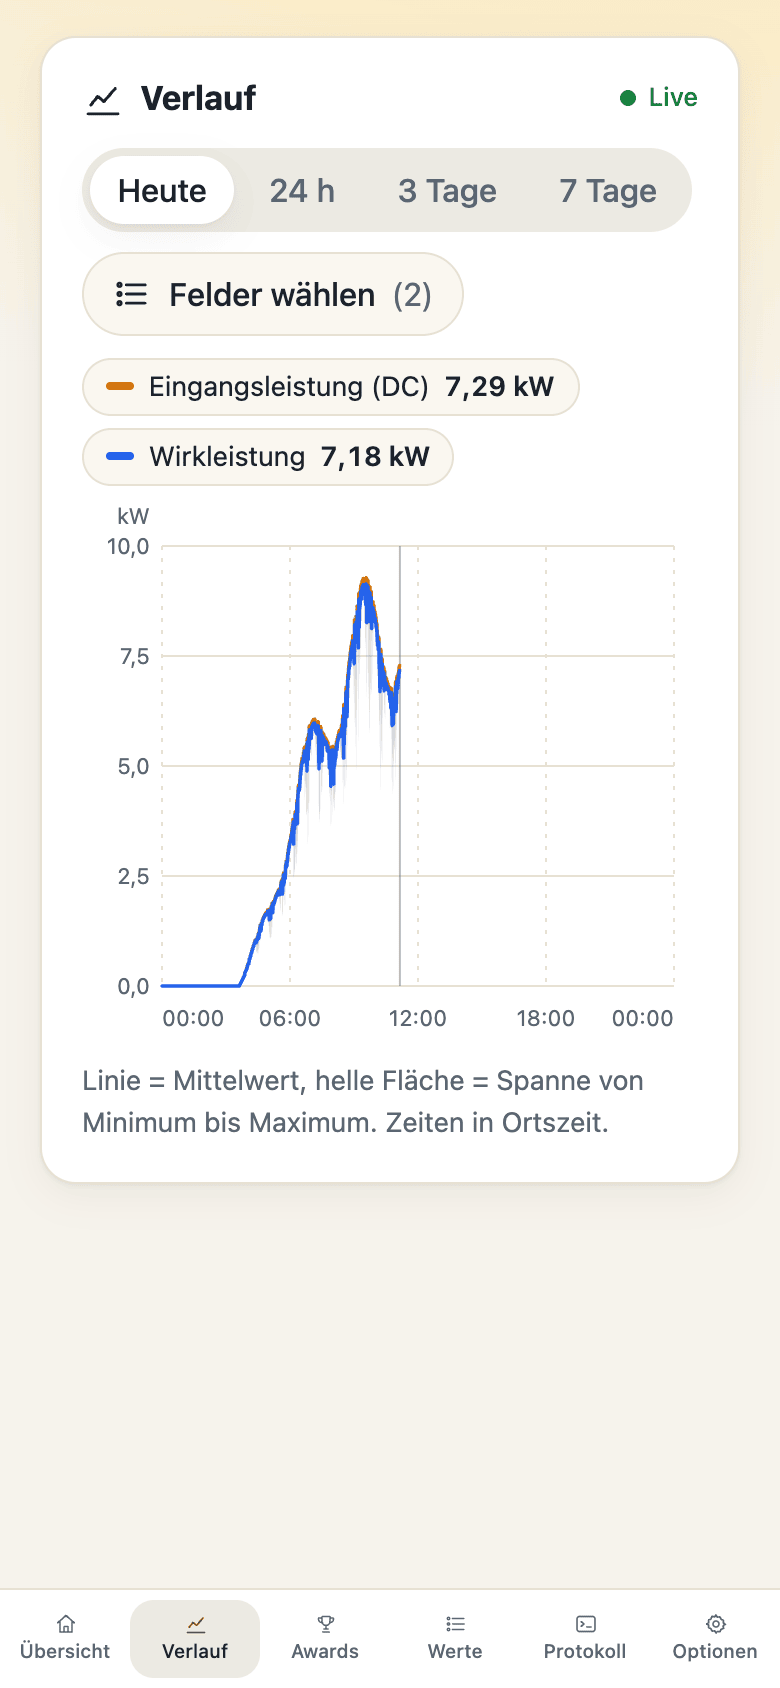
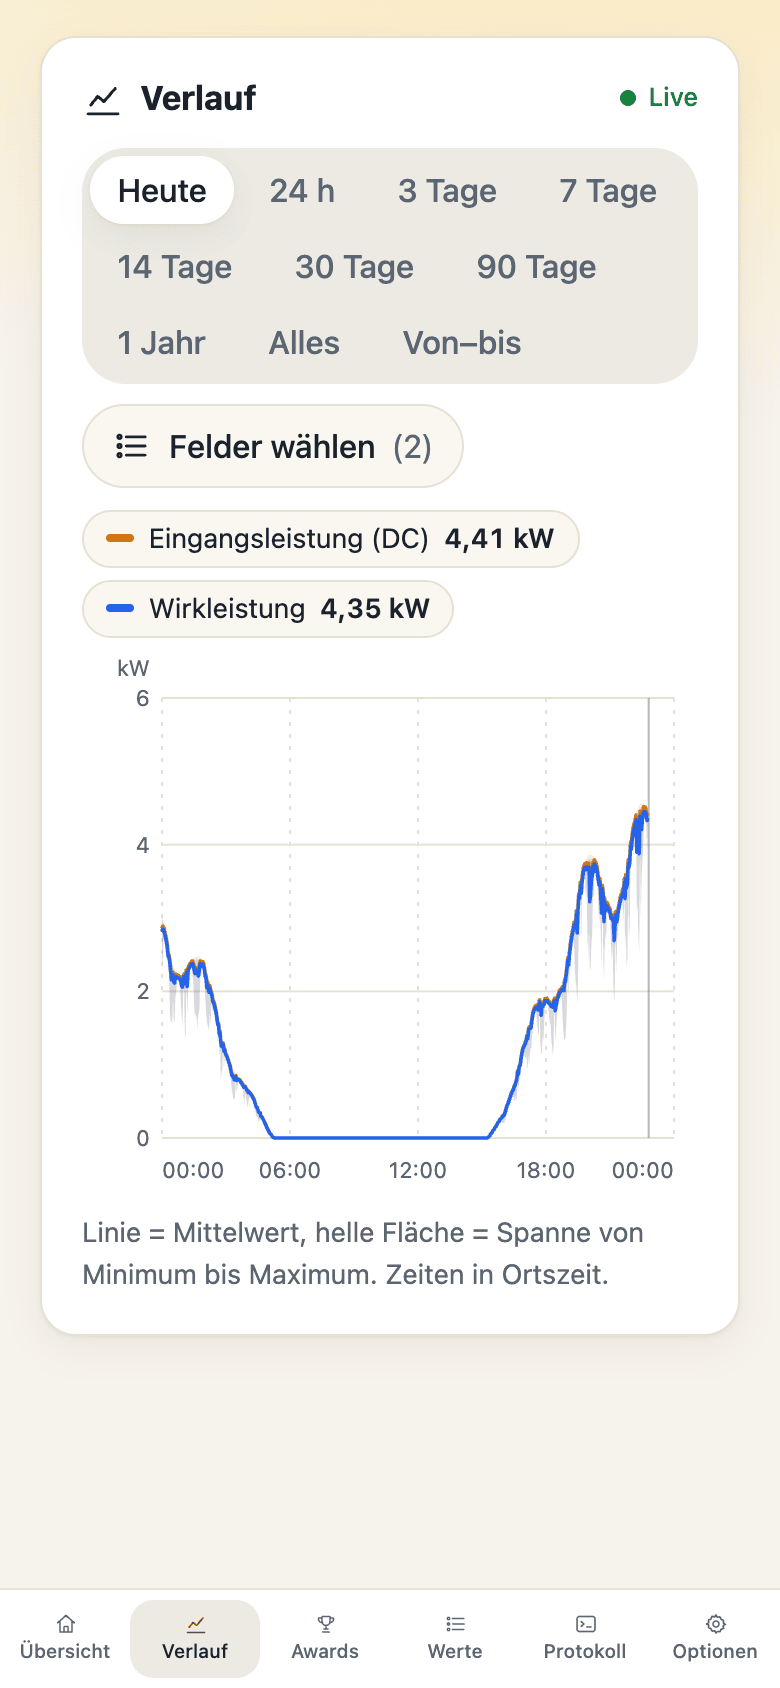
docs(REQ-035): README en/de, Architektur, Changelog und Screenshots auf rc3-Stand (dauerhafte Historie)
Claude-Session: https://claude.ai/code/session_01X5kKRYZkw7YbdxUUKAwNhY

diff --git a/README.de.md b/README.de.md
@@ -15,7 +15,7 @@ sieben Sprachen.
 
 - 📈 **Alle Daten**: PV-Strings, Netz (3 Phasen), Ertrag, Zustand in Klartext, Temperatur, Isolation, Alarme, Gerätedaten
 - 🎛 **Steuerung**: Wirkleistung in % oder W begrenzen, Wechselrichter einschalten – und ausschalten, wenn du es ausdrücklich erlaubst
-- 📊 **Verlauf & Awards**: jeder 10-Sekunden-Wert für 7 Tage (einstellbar) im Live-Diagramm; bester Tag/Woche/Monat/Jahr, Spitzenleistung, Meilensteine, eingespartes CO₂ und Ertrag in Euro – alles lokal in SQLite gespeichert und auch per MQTT abfragbar
+- 📊 **Verlauf & Awards**: dauerhafte Historie – jeder 10-Sekunden-Wert 90 Tage lang (einstellbar), danach für immer als 5-Minuten-Mittelwert; Diagramm von heute bis Jahre zurück; bester Tag/Woche/Monat/Jahr, Spitzenleistung, Meilensteine, eingespartes CO₂ und Ertrag in Euro – alles lokal in SQLite gespeichert und auch per MQTT abfragbar
 - 🛡 **Robust**: übersteht Ausfälle von Wechselrichter, Dongle oder Broker, verbindet sich selbst neu und überlastet den Dongle nie
 - 🪶 **Schlank**: ein kleiner Python-Prozess, rund 4 Laufzeit-Bibliotheken, ca. 30 MB RAM, ohne Root-Rechte
 - 🍓 **Läuft auf dem Raspberry Pi**: Images für amd64 und arm64 (Raspberry Pi 3/4/5 mit 64-Bit-System)
@@ -55,7 +55,7 @@ sieben Sprachen.
 
 | Verlauf | Awards | Awards (Handy, dunkel) |
 |---|---|---|
-| ![Verlauf](docs/images/history-light.png) | ![Awards](docs/images/awards-light.png) | ![Awards Handy](docs/images/awards-mobile-dark.png) |
+| ![Verlauf](docs/images/history-year-light.png) | ![Awards](docs/images/awards-light.png) | ![Awards Handy](docs/images/awards-mobile-dark.png) |
 
 ## Voraussetzungen
 
@@ -123,7 +123,7 @@ Schlüssel mit Kommentar). Pflicht sind nur `HUAWEI_HOST` und `MQTT_HOST`.
 | `MQTT_FLAT_TOPICS` | `true` | Zusätzlich ein Topic je Einzelwert |
 | `PORTAL_PORT` | `8080` | Host-Port des Portals (Compose-Mapping) |
 | `PORTAL_PASSWORD` | – | Kennwort für Änderungen im Portal. Leer = Portal nur lesbar |
-| `HISTORY_DAYS` | `7` | Wie viele Tage der 10-Sekunden-Verlauf aufbewahrt wird (1–90). Tageswerte/Awards bleiben dauerhaft |
+| `HISTORY_DAYS` | `90` | Wie viele Tage die 10-Sekunden-Werte in voller Auflösung bleiben (1–365). Ältere Werte werden zu 5-Minuten-Mittelwerten zusammengefasst und dauerhaft behalten – automatisch gelöscht wird nichts. Ca. 200–250 MB für 90 Tage, ca. 25 MB je weiteres Jahr |
 | `FEED_IN_TARIFF` | `0.08` | Einspeisevergütung pro kWh für den Award „Ertrag in Geld“ |
 | `CURRENCY` | `EUR` | Währungskürzel für Geldbeträge |
 | `CO2_FACTOR` | `0.38` | Eingespartes CO₂ in kg pro kWh (Standard ≈ deutscher Strommix) |
@@ -214,11 +214,11 @@ mosquitto_pub -h <broker> -u <benutzer> -P <kennwort> -t 'huawei/HV2260000000/co
 ## Web-Portal
 
 - **Übersicht** – aktuelle Leistung, Ertrag, heutige Spitze mit Uhrzeit, Zustand in Klartext, Strings, Netz, Firmware, Verbindungsstatus von Wechselrichter, Dongle und Broker, Schreibzugriff und ein Countdown bis zur nächsten Aktualisierung. Kurze Aussetzer und Ausfälle werden deutlich angezeigt.
-- **Verlauf** – Live-Liniendiagramm beliebiger Werte (heute, 24 h, bis zur eingestellten Zahl von Tagen), Mittelwert-Linie mit Min/Max-Band.
+- **Verlauf** – Liniendiagramm beliebiger Werte: heute, 24 h, Tage, 1 Jahr, alles oder frei von–bis; Mittelwert-Linie mit Min/Max-Band, kurze Zeiträume laufen live mit.
 - **Awards** – Top 3 der Tage, Wochen, Monate, Jahre, Spitzenleistung, längster Sonnentag, frühester Start; Meilensteine, eingespartes CO₂ und Ertrag in Geld. Ohne Smart Meter gilt *Gesamtertrag × Einspeisevergütung* – selbst verbrauchter Strom ist eigentlich mehr wert.
 - **Alle Werte** – jedes Register mit Adresse, Rohwert, umgerechnetem Wert und Einheit; filterbar.
 - **Protokoll** – Live-Protokoll mit Filter nach Stufe.
-- **Einstellungen** – Sprache (ohne Login) und Anmeldung; nach dem Login: Leistungsbegrenzung, Ein/Aus, Schreibtest, Intervalle, Log-Stufe, MQTT-Optionen, Verlauf/Awards-Optionen und *Speicher leeren* (nur Verlauf, Tageswerte + Awards oder alles).
+- **Einstellungen** – Sprache (ohne Login) und Anmeldung; nach dem Login: Leistungsbegrenzung, Ein/Aus, Schreibtest, Intervalle, Log-Stufe, MQTT-Optionen, Verlauf/Awards-Optionen und *Speicher leeren* (Verlauf inkl. 5-Minuten-Werten, Tageswerte + Awards oder alles).
 
 Ohne `PORTAL_PASSWORD` ist das Portal nur lesbar. Anmeldeversuche sind gebremst.
 **Passwort vergessen?** Es steht als `PORTAL_PASSWORD` in der `.env` – dort ändern und `docker compose up -d` ausführen.

diff --git a/README.md b/README.md
@@ -14,7 +14,7 @@ connection status of every component and the log — in seven languages.
 
 - 📈 **All the data**: PV strings, grid (3 phases), yield, status in plain words, temperature, insulation, alarms, device info
 - 🎛 **Control**: limit active power in % or W, switch the inverter on — and off, if you explicitly allow it
-- 📊 **History & awards**: every 10-second value for 7 days (configurable) in a live chart; best day/week/month/year, peak power, milestones, CO₂ saved and yield in money — all stored locally in SQLite, also queryable via MQTT
+- 📊 **History & awards**: a permanent history – every 10-second value for 90 days (configurable), then kept forever as 5-minute averages; live chart from today back to years; best day/week/month/year, peak power, milestones, CO₂ saved and yield in money — all stored locally in SQLite, also queryable via MQTT
 - 🛡 **Robust**: survives inverter, dongle or broker outages, reconnects by itself, never hammers the dongle
 - 🪶 **Lightweight**: one small Python process, ~4 runtime libraries, ~30 MB RAM, non-root
 - 🍓 **Runs on a Raspberry Pi**: images for amd64 and arm64 (Raspberry Pi 3/4/5 with 64-bit OS)
@@ -54,7 +54,7 @@ connection status of every component and the log — in seven languages.
 
 | History | Awards | Awards (mobile, dark) |
 |---|---|---|
-| ![History](docs/images/history-light.png) | ![Awards](docs/images/awards-light.png) | ![Awards mobile](docs/images/awards-mobile-dark.png) |
+| ![History](docs/images/history-year-light.png) | ![Awards](docs/images/awards-light.png) | ![Awards mobile](docs/images/awards-mobile-dark.png) |
 
 ## Requirements
 
@@ -122,7 +122,7 @@ with comments). Only `HUAWEI_HOST` and `MQTT_HOST` are mandatory.
 | `MQTT_FLAT_TOPICS` | `true` | Additionally publish one topic per value |
 | `PORTAL_PORT` | `8080` | Host port of the portal (compose mapping) |
 | `PORTAL_PASSWORD` | – | Password for changes in the portal. Empty = portal is read-only |
-| `HISTORY_DAYS` | `7` | How many days of 10-second history to keep (1–90). Daily values/awards are kept forever |
+| `HISTORY_DAYS` | `90` | How many days the 10-second values are kept in full detail (1–365). Older values are condensed to 5-minute averages and kept forever – nothing is deleted automatically. ~200–250 MB for 90 days, ~25 MB per further year |
 | `FEED_IN_TARIFF` | `0.08` | Feed-in tariff per kWh, used for the "yield in money" award |
 | `CURRENCY` | `EUR` | Currency code shown with money values |
 | `CO2_FACTOR` | `0.38` | kg CO₂ saved per kWh (default ≈ German grid mix) |
@@ -215,7 +215,7 @@ mosquitto_pub -h <broker> -u <user> -P <pass> -t 'huawei/HV2260000000/control/po
 - **Awards** – top 3 days, weeks, months, years, peak power, longest sunny day, earliest start; milestones, CO₂ saved and yield in money. Without a smart meter the money value is *total yield × feed-in tariff* — self-consumed energy is actually worth more.
 - **All values** – every register with address, raw value, scaled value and unit; filterable.
 - **Log** – live log with level filter.
-- **Settings** – language (no login needed) and login; after login: power limit, on/off, write test, intervals, log level, MQTT options, history/awards options and *clear storage* (history only, daily values + awards, or everything).
+- **Settings** – language (no login needed) and login; after login: power limit, on/off, write test, intervals, log level, MQTT options, history/awards options and *clear storage* (history (detail and 5-minute values), daily values + awards, or everything).
 
 Without `PORTAL_PASSWORD` the portal is read-only. Login attempts are rate-limited.
 **Forgot the password?** It is `PORTAL_PASSWORD` in your `.env` — change it and run `docker compose up -d`.

diff --git a/docs/ARCHITECTURE.md b/docs/ARCHITECTURE.md
@@ -27,7 +27,7 @@ an in-memory cache and a small persistent state:
 | `publish.py` | Topic and payload construction (group JSON with `ts`, flat topics, `null` handling) |
 | `mqtt.py` | MQTT client: LWT, reconnect with back-off, publish queue, set-topic receiver (ignores retained) |
 | `commands.py` | The three setters: validation, rate limit (1 / 2 s), whitelisted writes, `write_access` tracking |
-| `history.py` | SQLite store (`/data/huawei2mqtt.db`, WAL): 10-s samples, daily values, milestones; buffered writes (commit every 60 s), retention, bucketed queries (avg/min/max), MQTT `history/get` |
+| `history.py` | SQLite store (`/data/huawei2mqtt.db`, WAL): 10-s samples, condensed 5-min samples (`samples_5m`), daily values, milestones; buffered writes (commit every 60 s), condensing after `HISTORY_DAYS` (nothing is deleted), bucketed queries across both levels (avg/min/max), MQTT `history/get` |
 | `awards.py` | Pure functions: rankings (top 3), milestones, CO₂ and money from the daily values |
 | `api.py` | aiohttp: portal API + static files from `WEB_DIR` |
 | `config.py` | `.env` overlaid by `DATA_DIR/settings.json` (only the editable fields) |
@@ -86,7 +86,7 @@ endpoints return `403`.
 | `POST /api/history/clear` | session | `{"scope":"samples"\|"daily"\|"all"}` — clears history only, daily values + milestones, or both |
 
 `GET /api/status` additionally contains `poll` (`live_interval_s`, `last_live_at`, `next_live_at`),
-`inverter.dropouts_24h` / `last_dropout` and `history` (`days`, `samples`, `oldest`, `db_size_bytes`).
+`inverter.dropouts_24h` / `last_dropout` and `history` (`days`, `samples`, `samples_5m`, `oldest`, `detail_oldest`, `db_size_bytes`). `/api/history` additionally returns `resolution_s` (10, 300 or `"mixed"`).
 
 ## Persistent data (`/data`)
 
@@ -94,7 +94,7 @@ endpoints return `403`.
 |---|---|
 | `settings.json` | Settings changed in the portal (override `.env`) |
 | `state.json` | `write_access`, last known serial number |
-| `huawei2mqtt.db` | SQLite: `samples` (one row per live poll, kept `HISTORY_DAYS`), `daily` (kept forever), `milestones` |
+| `huawei2mqtt.db` | SQLite: `samples` (one row per live poll, kept `HISTORY_DAYS`), `samples_5m` (5-min averages of older samples, kept forever), `daily` (kept forever), `milestones` |
 | session secret | Signing key for portal sessions (generated on first start) |
 
 Deleting the volume also deletes history, daily values and awards. Deleting it resets the portal settings to `.env` and the write-access status to "unverified".

diff --git a/CHANGELOG.md b/CHANGELOG.md
@@ -3,6 +3,18 @@
 All notable changes to this project are documented here. Versions follow
 [Semantic Versioning](https://semver.org/).
 
+## [0.3.0-rc3] - 2026-11-09
+
+### Added
+- Permanent history: after `HISTORY_DAYS` the 10-second values are condensed to 5-minute averages (table `samples_5m`) and kept forever instead of being deleted.
+- History page: 30 and 90 days, 1 year, all and a free from–to range; hint when older 5-minute averages are shown; storage info in Settings.
+- `/api/history` and MQTT `history/get` read seamlessly across detail and 5-minute values (`resolution_s`); `/api/status` `history` gains `samples_5m` and `detail_oldest`.
+
+### Changed
+- `HISTORY_DAYS` now means "keep in full detail", default 90 (was 7), range 1–365.
+- Power axis in the history chart starts at 0.
+- `…/awards` is published after the first successful poll (no empty message on connect); a rate-limited `history/result` carries the request `type`.
+
 ## [0.2.0-rc2] - 2026-11-09
 
 ### Added
